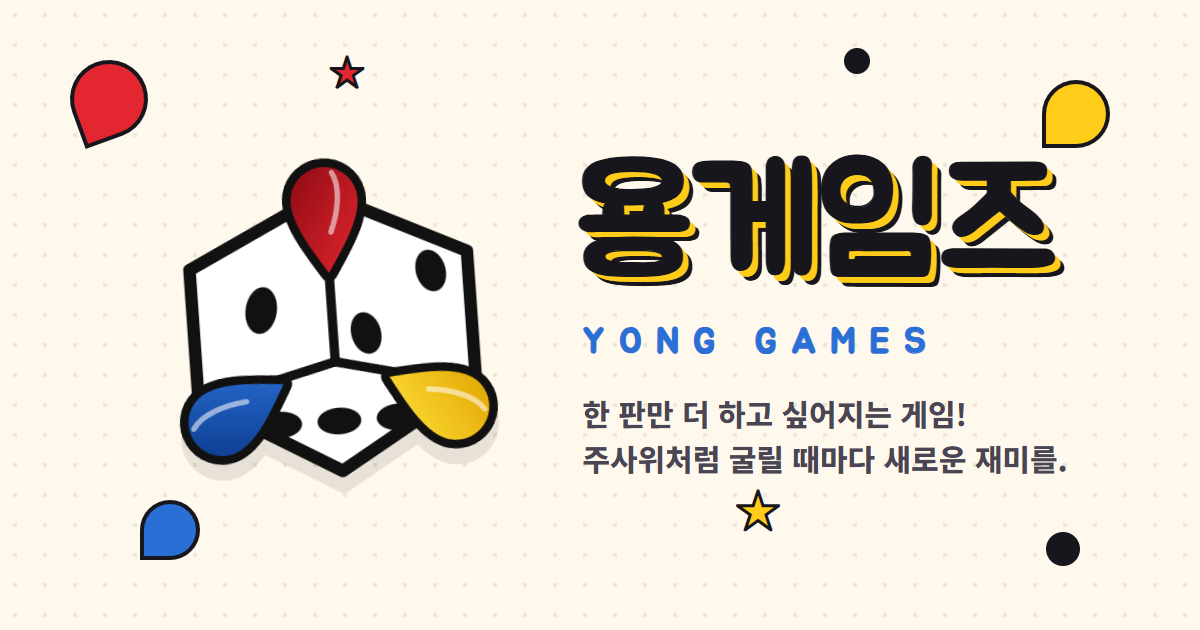
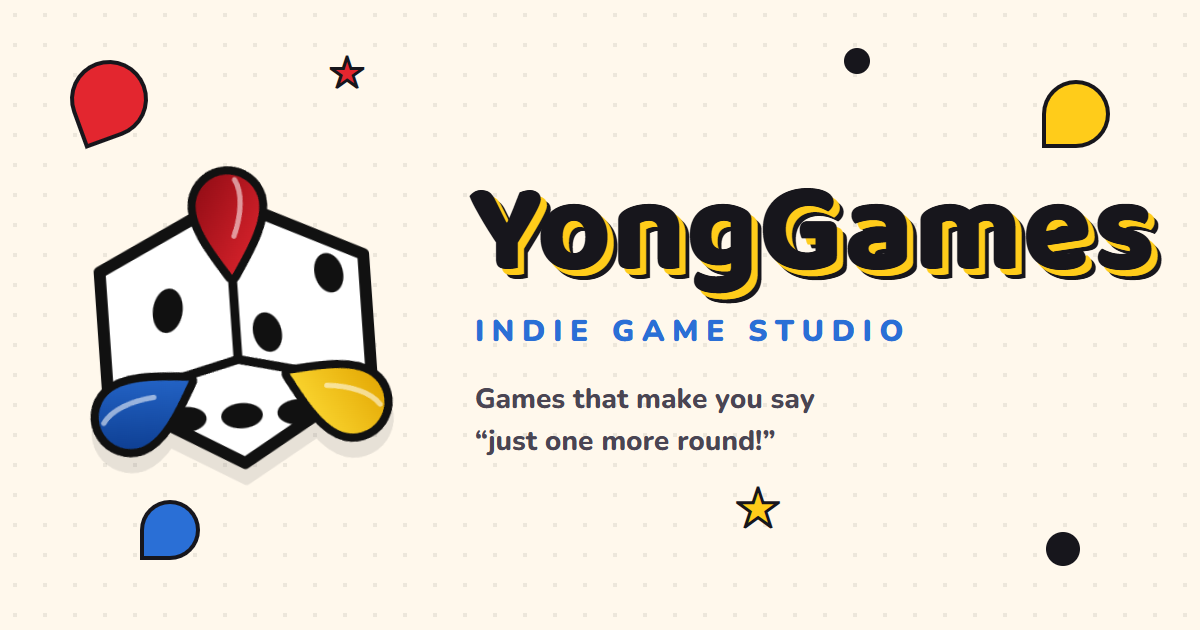
공유 미리보기를 영어 이미지·문구로 통일

Changed region(s): [[0.0617, 0.2413, 0.9867, 0.754], [0.6167, 0.7841, 0.6475, 0.8444]]

diff --git a/index.html b/index.html
@@ -13,8 +13,9 @@
     <meta property="og:type" content="website" />
     <meta property="og:site_name" content="YongGames" />
     <meta property="og:url" content="https://yonggames.305.co.kr/" />
-    <meta property="og:title" content="용게임즈 | YongGames" />
-    <meta property="og:description" content="한 판만 더 하고 싶어지는 게임! 인디 게임 스튜디오 용게임즈입니다." />
+    <meta property="og:title" content="YongGames | Indie Game Studio" />
+    <meta property="og:description" content="Games that make you say &quot;just one more round!&quot; Typing Clash, Puzzle Duel, Don't Watch Ads and more." />
+    <meta property="og:locale" content="en_US" />
     <meta property="og:image" content="https://yonggames.305.co.kr/assets/og-image.png" />
     <meta property="og:image:width" content="1200" />
     <meta property="og:image:height" content="630" />
